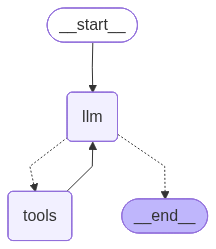
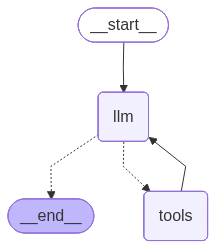
27/3

diff --git a/agent-2.js b/agent-2.js
@@ -8,7 +8,7 @@
 */
 
 import { ChatGroq } from "@langchain/groq";
-import { MessagesAnnotation, StateGraph } from "@langchain/langgraph";
+import { END, MessagesAnnotation, StateGraph } from "@langchain/langgraph";
 import { ToolNode } from "@langchain/langgraph/prebuilt";
 import { TavilySearch } from "@langchain/tavily";
 import { tool, createAgent } from "langchain";
@@ -57,6 +57,7 @@ const llm = new ChatGroq({
   temperature: 0,
 }).bindTools(tools);
 
+//* 3 Build the graph
 //note : state is aglobal storage all function(node) can access it, it contain messages history( ai message , human message )
 async function callModel(state) {
   // call the llm
@@ -65,7 +66,6 @@ async function callModel(state) {
   return { messages: [response] };
 }
 
-//* 3 Build the graph
 function wheretogo(state) {
   const lastMessage = state.messages[state.messages.length - 1];
 
@@ -82,7 +82,10 @@ const graph = new StateGraph(MessagesAnnotation)
   .addNode("tools", toolNode)
   //-------edges added---------
   .addEdge("__start__", "llm")
-  .addConditionalEdges("llm", wheretogo)
+  .addConditionalEdges("llm", wheretogo , {
+    __end__ : END,
+    tools: "tools"
+  })
   .addEdge("tools", "llm");
 
 
